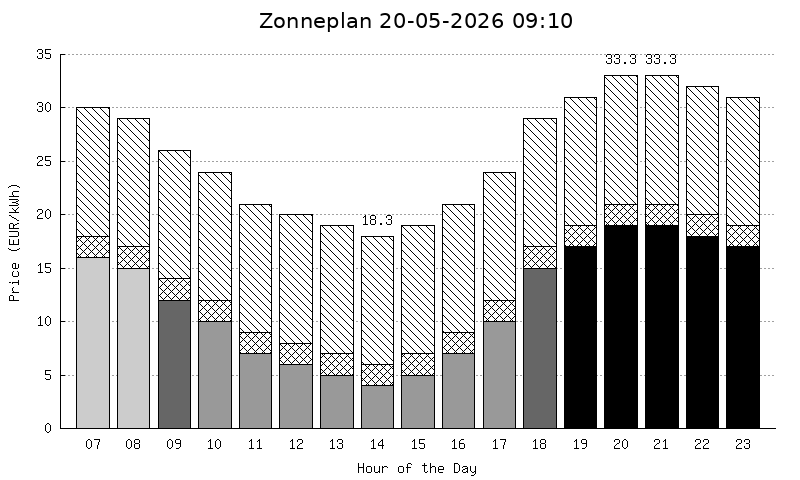
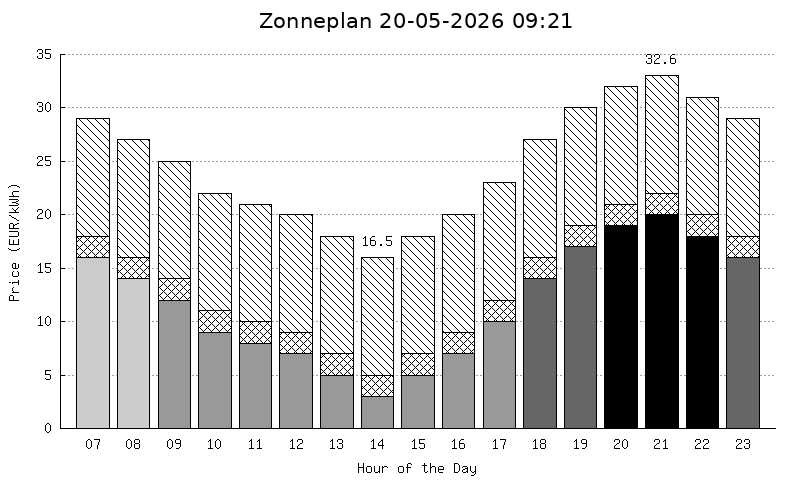
Fix Zonneplan scraper for Next.js streaming format and correct energy tax
Zonneplan migrated their dynamic-prices page from Next.js Pages Router
(__NEXT_DATA__ script tag) to App Router streaming (self.__next_f.push
chunks). The old scraper silently failed and we have been running on
the EnergyZero fallback this whole time, which approximates the price
using fixed-value constants.

Two fixes:

1. Rewrite fetch_from_zonneplan to scan all self.__next_f.push payloads,
   JSON-unescape the inner string, and extract ElectricityHour records
   directly via regex. Restores live Zonneplan data with the real
   marketPrice, priceInclHandlingVat, and priceEnergyTaxes per hour.

2. Update ENERGY_TAX_RAW from 1_228_634 to 1_108_481. The previous value
   matched the README's 2025 sample; the 2026 NL tier-1 energy tax is
   ~€0.1108/kWh incl. BTW (€0.0916 ex. BTW), as observed in Zonneplan's
   live data. This only affects the EnergyZero fallback path.

Verified: chart now shows 16.5 ct at 14:00 and 32.6 ct at 21:00,
matching the Zonneplan website exactly.

https://claude.ai/code/session_01Kiv6muA4ob8pU7QosSeH77

diff --git a/lib/zonneplan.rb b/lib/zonneplan.rb
@@ -7,7 +7,7 @@ module Zonneplan
   PRICE_DIVISOR = 100_000
   ENERGYZERO_MULTIPLIER = 10_000_000
   BTW_RATE = 0.21
-  ENERGY_TAX_RAW = 1_228_634
+  ENERGY_TAX_RAW = 1_108_481
   HANDLING_FEE_RAW = 200_000
 
   module_function
@@ -37,20 +37,18 @@ module Zonneplan
   def fetch_from_zonneplan(user_agent)
     url = "https://www.zonneplan.nl/energie/dynamische-energieprijzen"
     html = URI.open(url, "User-Agent" => user_agent).read
-    doc = Nokogiri::HTML(html)
 
-    next_data_json = doc.at_css("script#__NEXT_DATA__")
-    unless next_data_json
-      $stderr.puts "Script tag with id='__NEXT_DATA__' not found on page."
-      return nil
+    hours = []
+    html.scan(/self\.__next_f\.push\(\[\d+,\s*"((?:[^"\\]|\\.)*)"\]\)/) do |(payload)|
+      next unless payload.include?("priceTotalTaxIncluded")
+      decoded = JSON.parse(%Q{"#{payload}"})
+      decoded.scan(/\{"__typename":"ElectricityHour"[^}]+\}/) do |obj|
+        hours << JSON.parse(obj)
+      end
     end
 
-    data = JSON.parse(next_data_json.text)
-    hours = data.dig("props", "pageProps", "data", "templateProps", "energyData", "electricity", "hours")
-    unless hours
-      $stderr.puts "Electricity hours data not found at expected path in __NEXT_DATA__."
-      $stderr.puts "Available top-level keys: #{data.keys}"
-      $stderr.puts "pageProps keys: #{data.dig("props", "pageProps")&.keys}" if data.dig("props", "pageProps")
+    if hours.empty?
+      $stderr.puts "ElectricityHour records not found on Zonneplan page."
       return nil
     end
 